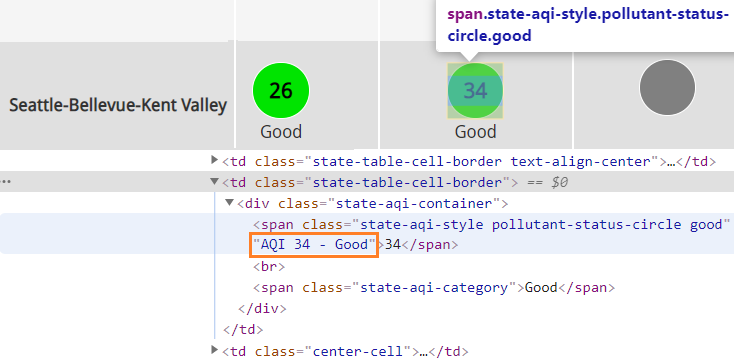
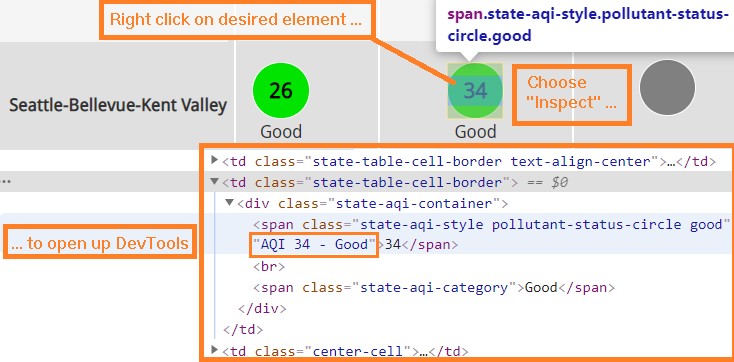
Rearranged slides, updated images.

diff --git a/demos/data_import/epa_aqi/getAQI.md b/demos/data_import/epa_aqi/getAQI.md
@@ -77,26 +77,17 @@ HTML element we want. Then we might extract the data using a package like `rvest
 
 ![](img/inspect_airnow_historical.png)
 
-It would be easier and more reliable to download a data file. But how?
-
-## Get the web address for JSON data
+## Getting structured data
 
 Instead of web-scraping the web page, we can download the data in JSON format, 
-which is better structured for data extraction and has the PM2.5 data we want.
+which is better structured for automated data extraction.
 
-We find the JSON web address (URL) using Chrome's built-in "Developer tools" 
-feature as we load the "Historical Air Quality" page for [Washington](https://www.airnow.gov/state/?name=washington).
-
-![](img/devtools_airnow_copy_link_address.png)
-
-## What does JSON look like?
-
-Here are the first 400 characters of the JSON returned when using this link.
+Here are the first 250 characters of the JSON data used by that web page.
 
 
 ```r
 url <- 'https://airnowgovapi.com/andata/States/Washington/2021/1/22.json'
-substr(prettify(fromJSON(url)), 1, 400)
+substr(prettify(fromJSON(url)), 1, 250)
 ```
 
 ```
@@ -110,14 +101,20 @@ substr(prettify(fromJSON(url)), 1, 400)
 ##                 "pm10": -999.0,
 ##                 "ozone": -999.0
 ##             }
-##         },
-##         {
-##             "Clarkston": {
-##                 "pm25": 48.0,
-##                 "pm10": -999.0,
-##                 "ozone": -999.0
-##             }
+## 
 ```
+
+## Open "Developer tools"
+
+To find the web address, open the "DevTools" window in your web browser.
+
+![](img/developer_tools.png)
+
+## Get the web address for JSON data
+
+Use the Network tab of the DevTools feature after loading the "Historical Air Quality" page for [Washington](https://www.airnow.gov/state/?name=washington). Click XHR to filter results. Look for JSON files. 
+
+![](img/devtools_airnow_copy_link_address.png)
 
 ## Airnow data by date
 
@@ -185,55 +182,24 @@ ggplot(plot_df, aes(date, pm25)) + geom_point() +  ggtitle(plot_title) +
 
 ## Get WA Ecology data
 
-WA Ecology also has airquality data on their [web site](https://enviwa.ecology.wa.gov/).
+WA Ecology also has airquality data on their [web site](https://enviwa.ecology.wa.gov/home/map). Let's get PM2.5 data from the "Seattle-10th & Weller" sampling station. 
 
-To find data comparable to the previous example, we will get PM2.5 data for the 
-"Seattle-10th & Weller" sampling station.
-
-To do so, we need the "StationId" for "Seattle-10th & Weller" and 
-the "channel" for "BAM_PM25". We can get those from querying the web site.
-
-
-```r
-url <- 'https://enviwa.ecology.wa.gov/ajax/getAllStationsWithoutFiltering'
-enviwa_df <- fromJSON(url)
-sea_df <- enviwa_df %>% filter(name == "Seattle-10th & Weller")
-StationId <- sea_df %>% pull(serialCode)
-channel <- sea_df %>% select(monitors) %>% unnest(monitors) %>% 
-  filter(name == "BAM_PM25") %>% pull(channel)
-paste("StationId =", StationId, "; channel =", channel)
-```
-
-```
-## [1] "StationId = 163 ; channel = 32"
-```
-
-## Where do we get the URL?
-
-We navigate in the WA Ecology web site to Reports > Sites. This loads this page:
-
-- https://enviwa.ecology.wa.gov/report/SingleStationReport
-
-We find the URL using Chrome's built-in "Developer tools" feature. 
-
-![](img/devtools_enviwa_reports_sites.png)
-
-Right click the "Name" -> then "Copy" -> then "Copy link address".
+![](img/enviwa_map.png)
 
 ## Making the site report request
 
-After navigating to Reports > Sites, we fill out the request form like this:
+Launch WebTools and go to Reports > Sites in the [web site](https://enviwa.ecology.wa.gov/home/map). Fill out the form:
 
 ![](img/devtools_enviwa_site_report.png)
 
 ## Where do we get the request format?
 
-We find the request format using the "Copy as cURL (bash)" feature in Chrome's 
-built-in "Developer tools" feature.
+We want to duplicate this task in R. So, we need to find out how to send the 
+form data from R. We do this with "Copy as cURL (bash)" in DevTools.
 
 ![](img/devtools_enviwa_site_report_copy_as_curl.png)
 
-## What is Copy as cURL (bash)?
+## What is "Copy as cURL (bash)"?
 
 This is the cURL command you could paste into a Bash prompt to make the request.
 
@@ -287,6 +253,41 @@ style_text(deparse(fromJSON(json)))
 
 You will notice the dates are supplied in M/D/YYYY format. In R this is '%-m/%-d/%Y'.
 
+The StationId (163) and channel (32) could be modified for other sensor stations 
+or test parameters.
+
+## Getting a Station and parameter list
+
+To get a list of available sensors and test parameters, we can download another
+JSON file and search it. First we find the URL using the browser's DevTools feature. 
+
+![](img/devtools_enviwa_reports_sites.png)
+
+Right click the "Name" -> then "Copy" -> then "Copy link address".
+
+## Getting the StationId and channel
+
+With that link, we can download the station list and search for the StationId and channel we want.
+
+
+```r
+url <- 'https://enviwa.ecology.wa.gov/ajax/getAllStationsWithoutFiltering'
+enviwa_df <- fromJSON(url)
+sea_df <- enviwa_df %>% filter(name == "Seattle-10th & Weller")
+StationId <- sea_df %>% pull(serialCode)
+channel <- sea_df %>% select(monitors) %>% unnest(monitors) %>% 
+  filter(name == "BAM_PM25") %>% pull(channel)
+paste("StationId =", StationId, "; channel =", channel)
+```
+
+```
+## [1] "StationId = 163 ; channel = 32"
+```
+
+Although we already had these values for one station and parameter, now we have 
+a more efficient way to find other stations and parameters if we need to modify 
+our request.
+
 ## Format query dates
 
 We will request data for the past two weeks. We need to calculate the start and 
@@ -322,7 +323,7 @@ create a list to help accomplish that.
 
 ```r
 # Create a list of query parameters
-body_lst <- list(StationId = as.character(StationId),
+body_lst <- list(StationId = StationId,
                  MonitorsChannels = channel,
                  reportName = "station report",
                  startDateAbsolute = paste(start_date, "00:00"),
@@ -478,7 +479,7 @@ ts_key <- df$THINGSPEAK_PRIMARY_ID_READ_KEY
 
 ## Get JSON data from Thingspeak
 
-Now we can get the past two weeks of hourly data for the Montlake sensor.
+Now we can get the past two weeks of hourly data from the Montlake sensor.
 
 
 ```r
@@ -528,8 +529,8 @@ CSV download files when you follow a Purple Air "Download" link from the
 
 ### B. Get more parameters from multiple sensor locations
 
-1. Modify one of the examples provided here to get temperature, humidity, and 
-ozone (O<sub>3</sub>) as well as PM2.5, if they are available. 
+1. Modify WA Ecology example provided here to get temperature, humidity, and 
+ozone (O<sub>3</sub>) as well as PM2.5. 
 2. Then modify further to  collect from multiple sites using a loop, lapply, etc. 
 to avoid copying and pasting code. 
 3. Assemble the results into a single dataframe and 
